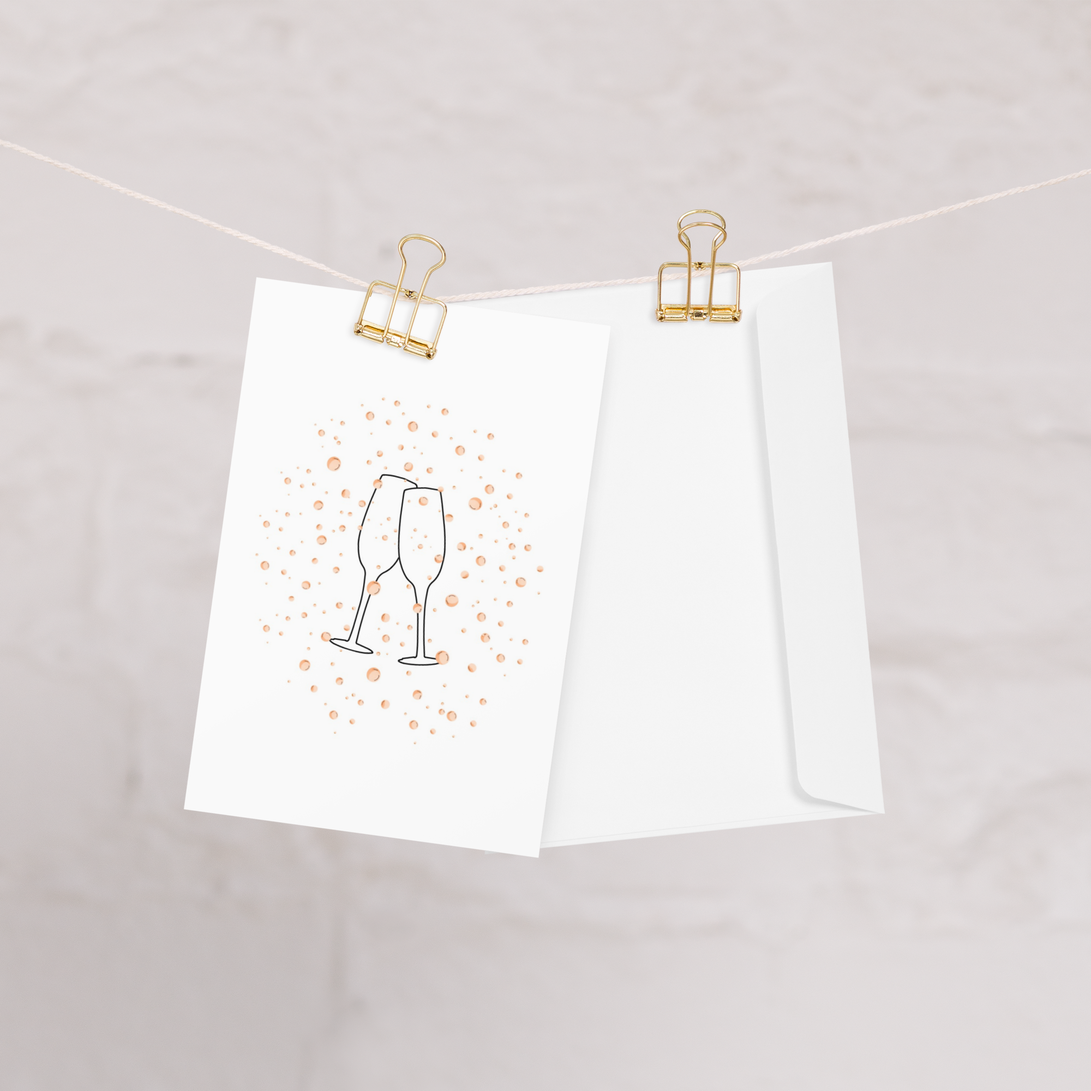
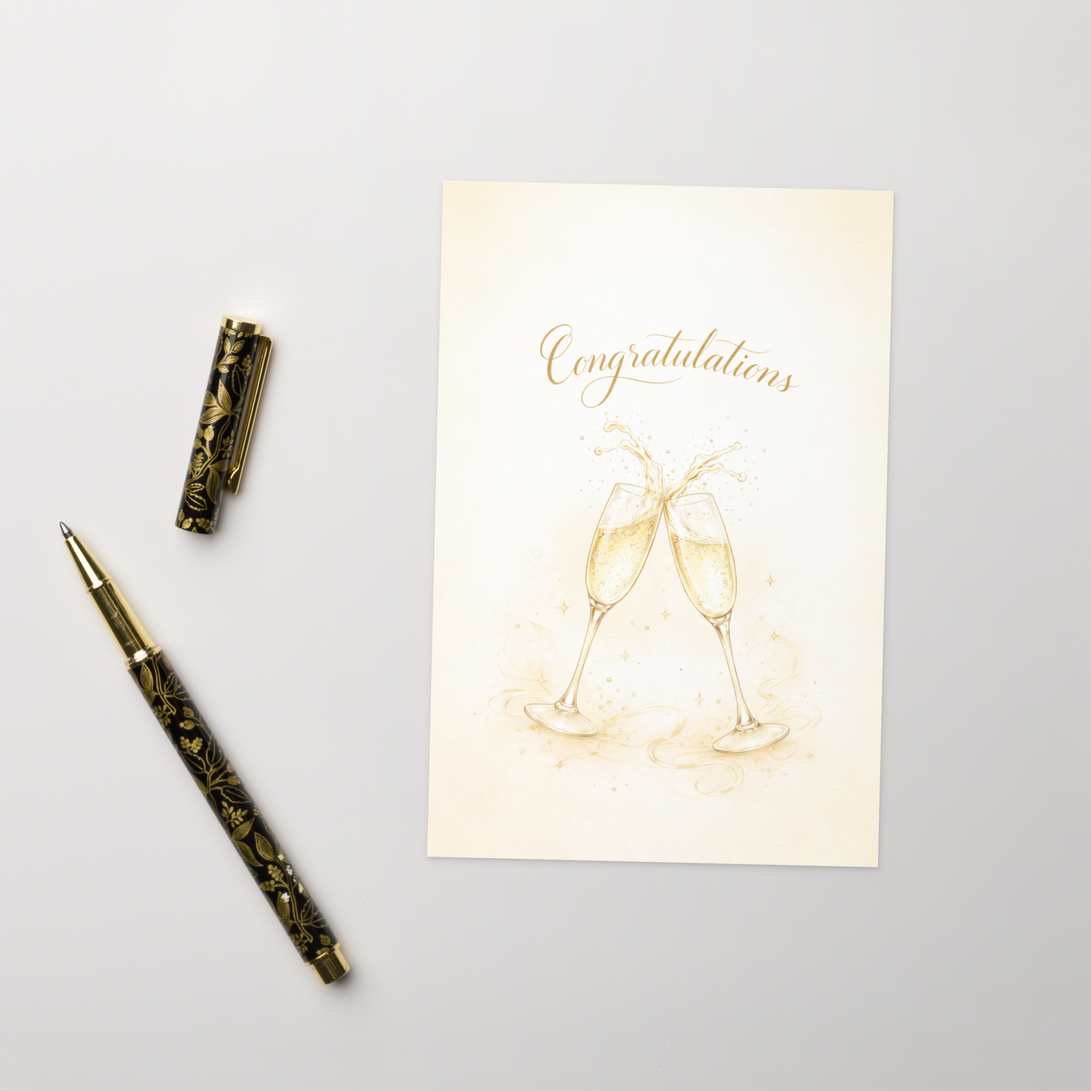
Updating cover art for Fizzy Bubbly

diff --git a/lib/cardTemplates.ts b/lib/cardTemplates.ts
@@ -192,7 +192,7 @@ export const CARD_TEMPLATES: CardTemplate[] = [
     stripePriceId: "price_1SWJVN0btTMST7LgTBriW2Am",
     printfulSyncVariantId: 5071152160,
     printfulShippingVariantId: 14457,
-    printfulCoverFileId: 906317612,
+    printfulCoverFileId: 929726697,
     printfulBackFileId:  927630617,
     images: [
       "/FizzyBubblyImages/FizzyMockup1.png",
